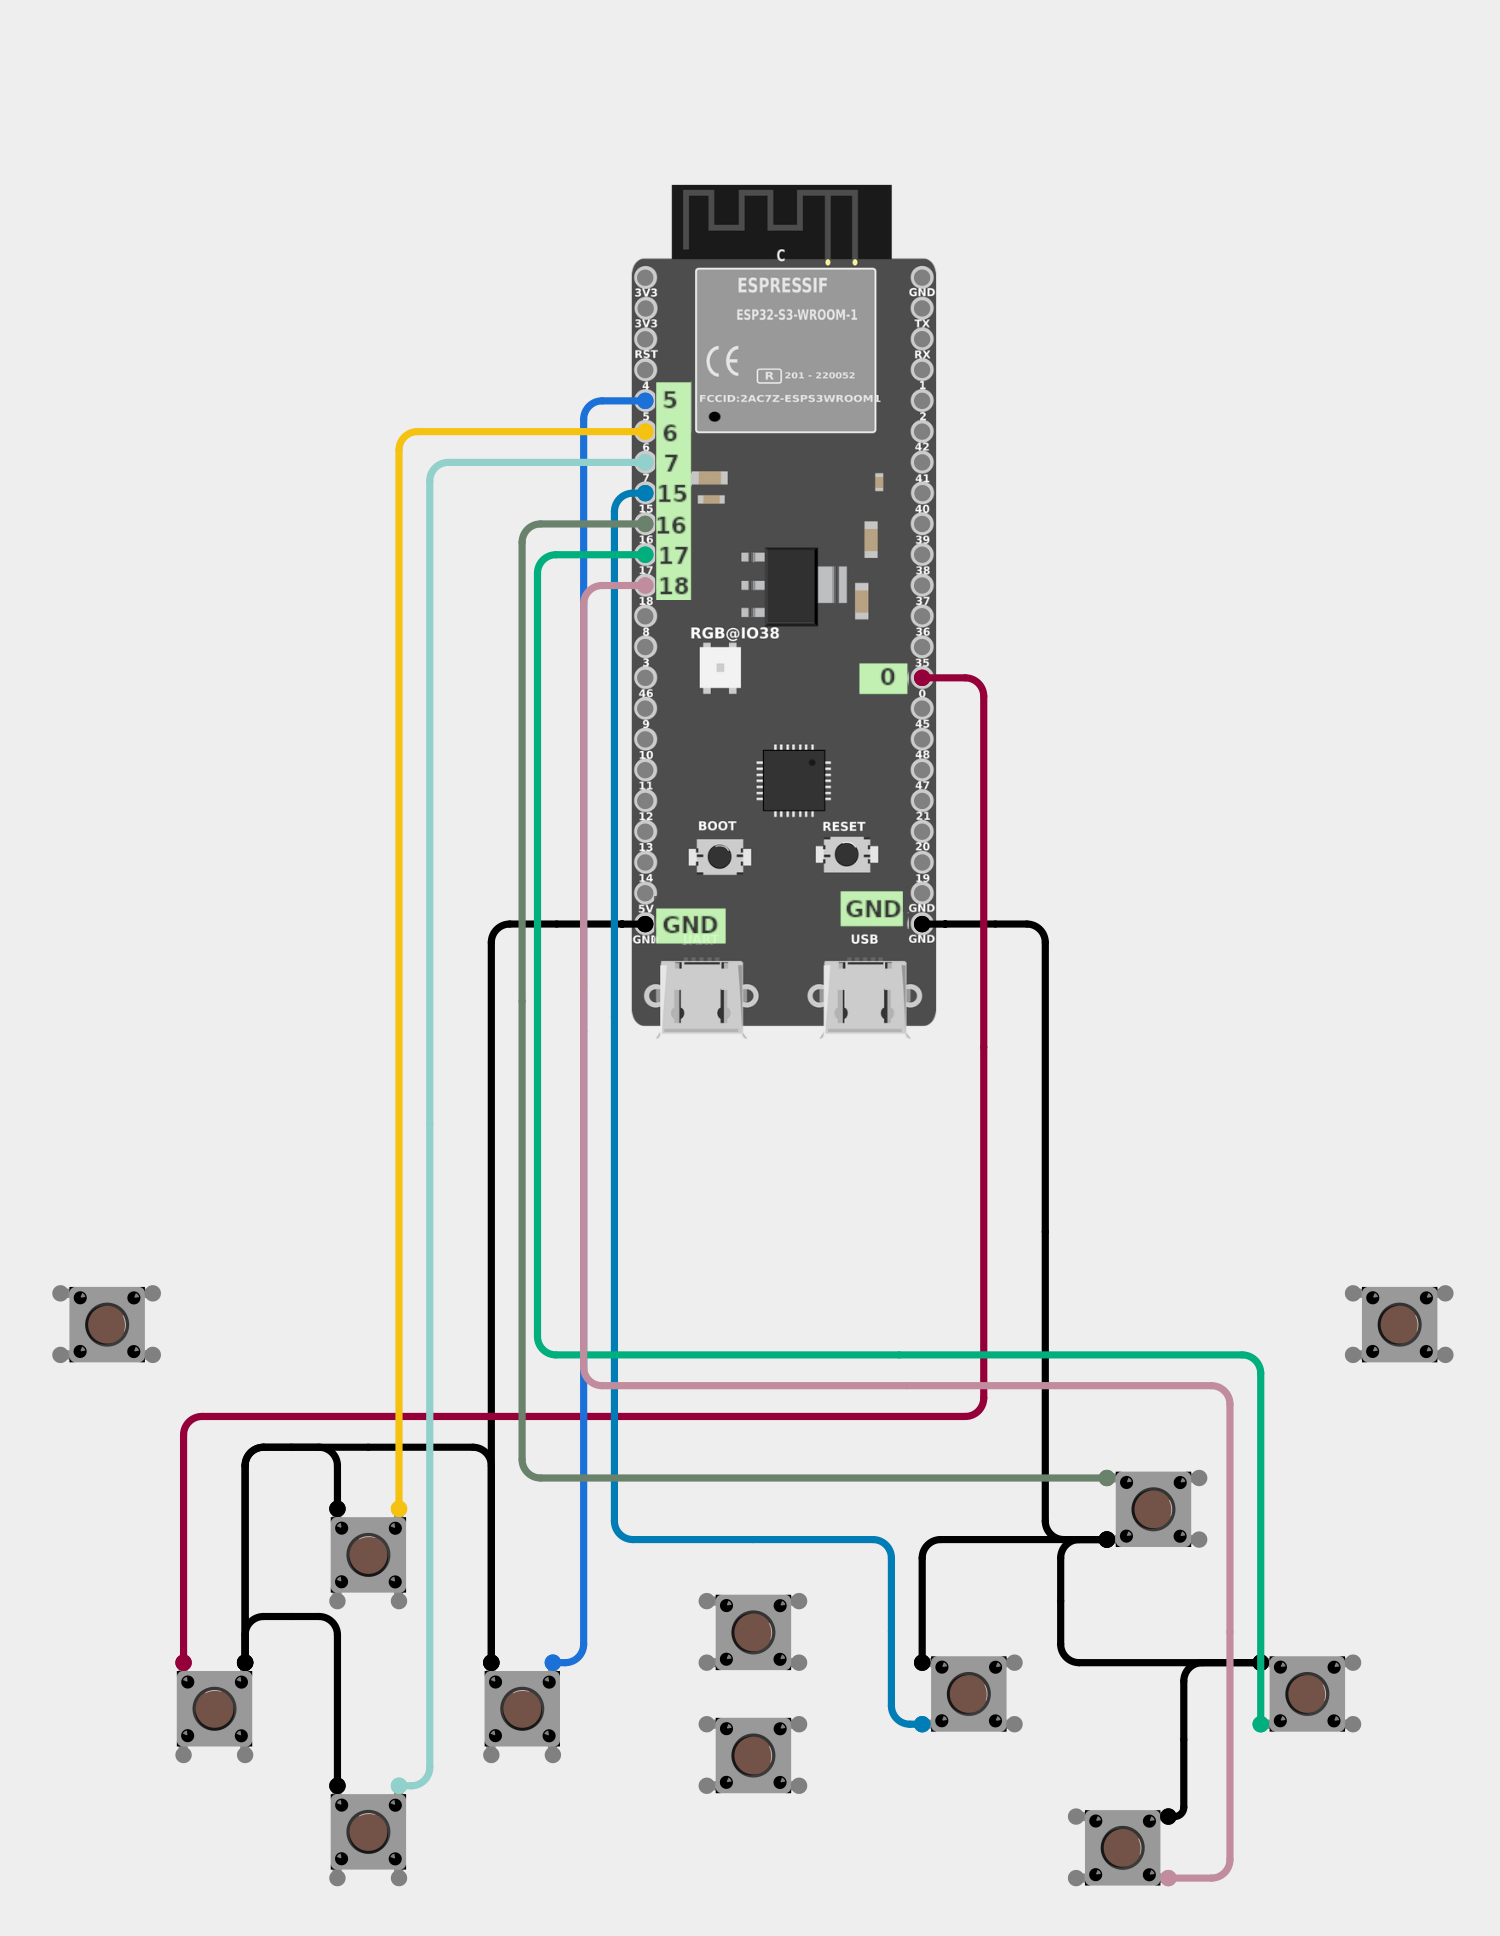
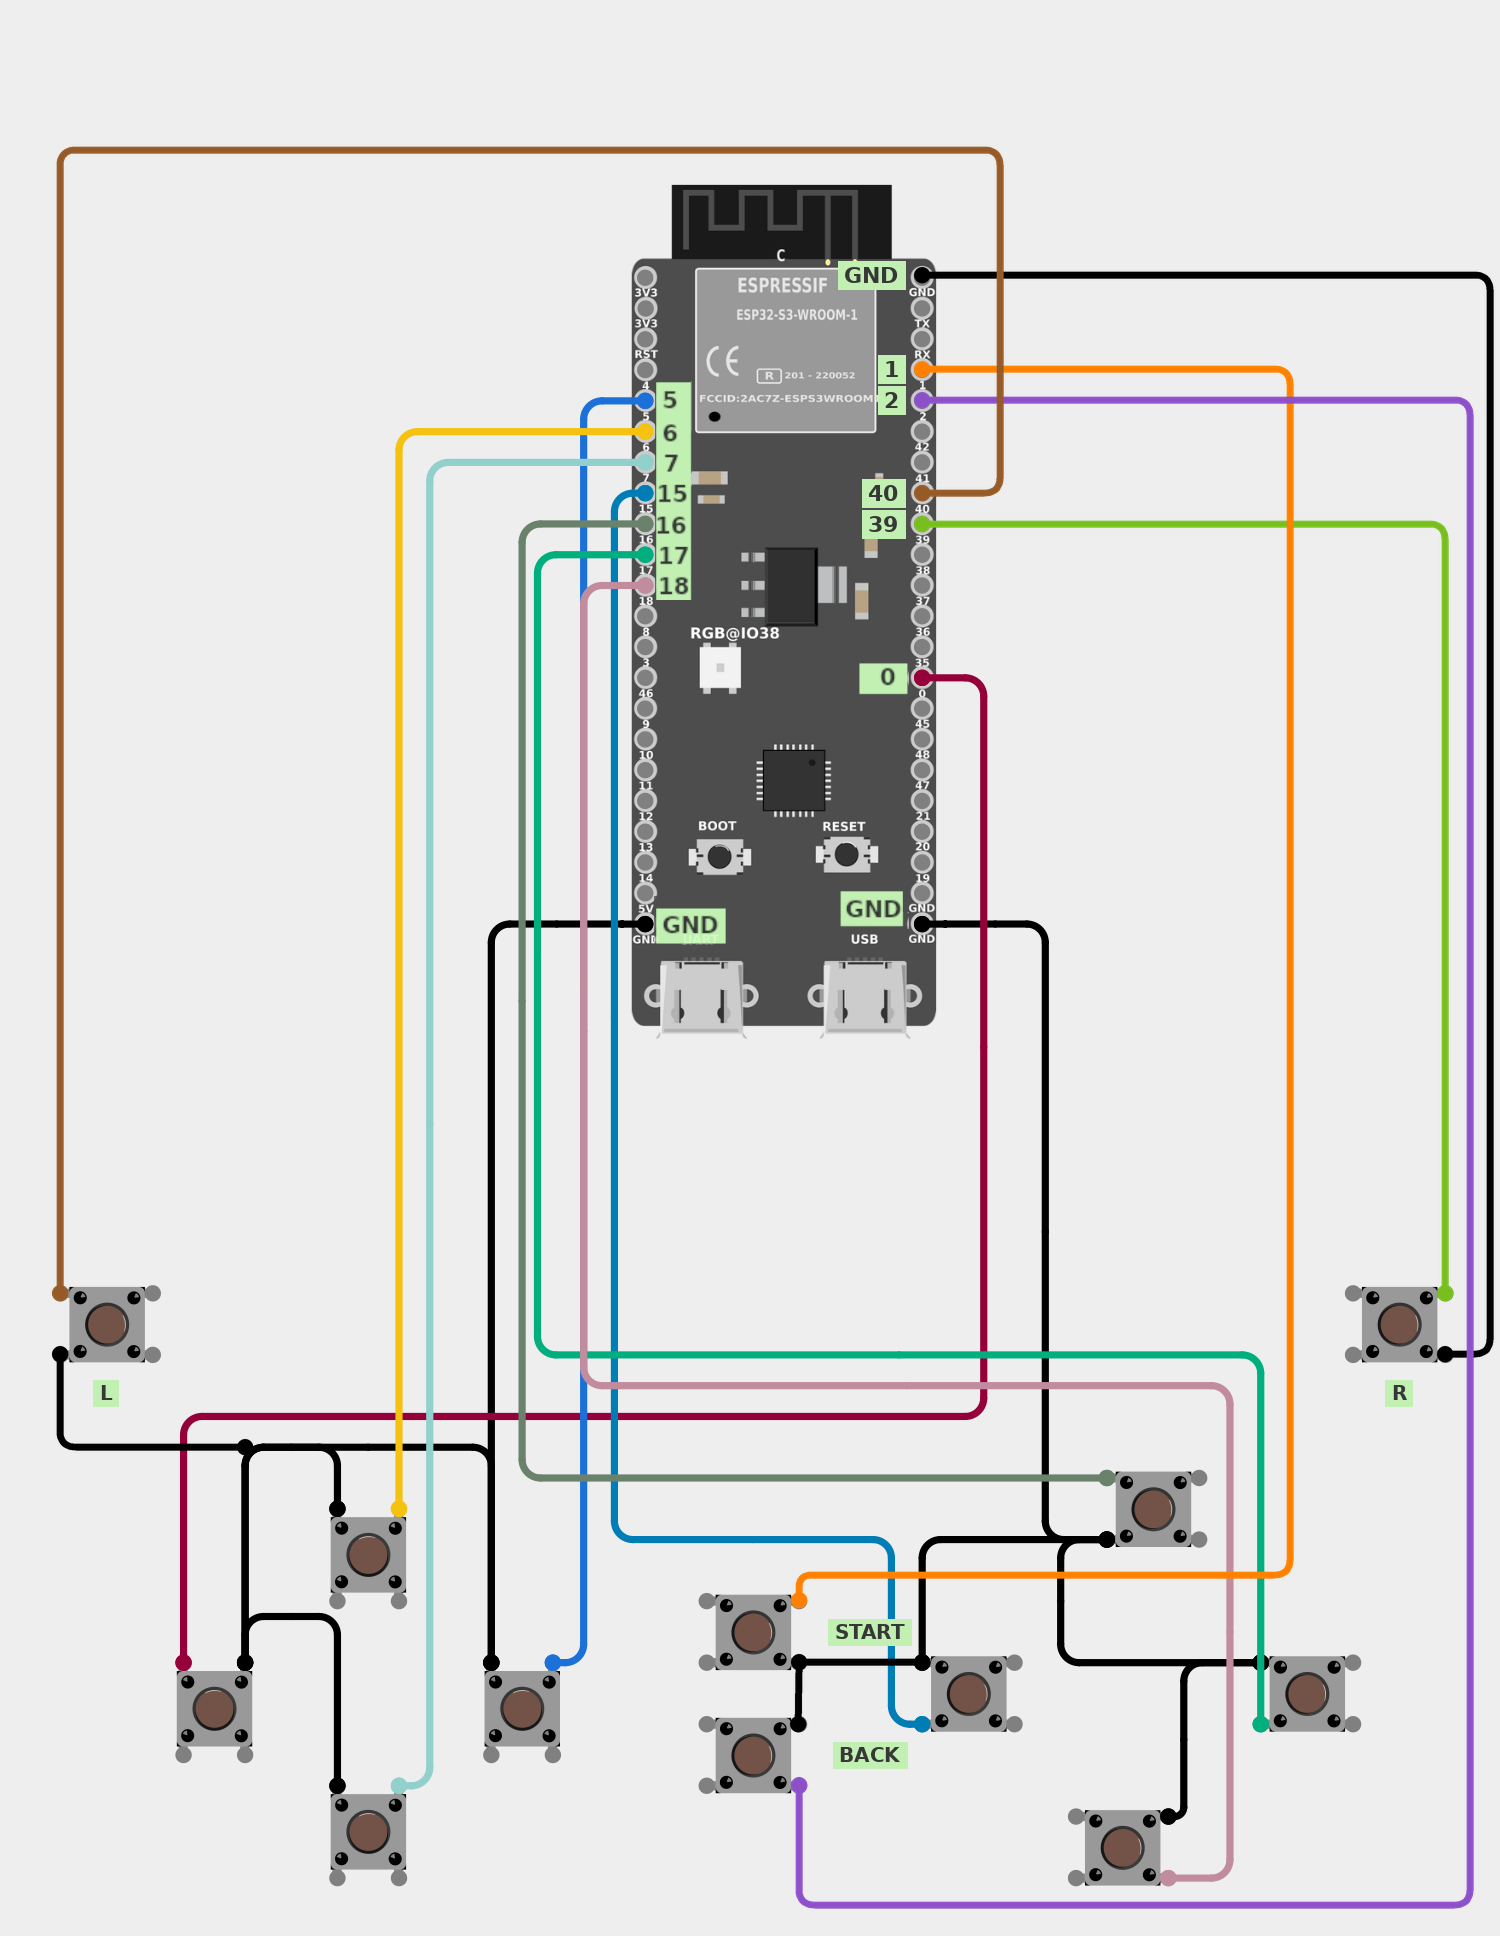
feat: new buttons and pause

Changed region(s): [[0.0307, 0.062, 1.0, 0.9917], [0.5213, 0.8058, 0.8587, 0.8988], [0.552, 0.8988, 0.6133, 0.9298]]

diff --git a/firmware/TurtleReader/turtle_input.h b/firmware/TurtleReader/turtle_input.h
@@ -52,7 +52,7 @@ enum TurtleBtn : int {
 #endif
 /*
  * START/BACK/L/R: GPIO libres y sin strapping (no 0/3/45/46), fuera de UART0 (43/44) y del
- * LED RGB de algunas placas N16R8 (48). Audio usa 14 y 42.
+ * LED RGB integrado (IO38 en la DevKitC-1 v1.1, IO48 en la v1.0). Audio usa 14 y 42.
  */
 #ifndef TURTLE_BTN_PIN_START
 #define TURTLE_BTN_PIN_START 1
@@ -61,7 +61,7 @@ enum TurtleBtn : int {
 #define TURTLE_BTN_PIN_BACK 2
 #endif
 #ifndef TURTLE_BTN_PIN_L
-#define TURTLE_BTN_PIN_L 38
+#define TURTLE_BTN_PIN_L 40
 #endif
 #ifndef TURTLE_BTN_PIN_R
 #define TURTLE_BTN_PIN_R 39

diff --git a/docs/site/docs/lua/input.md b/docs/site/docs/lua/input.md
@@ -62,4 +62,4 @@ An invalid button index (`< 0` or `> 11`) causes a **Lua error** (unlike color c
 
 ## Pin configuration
 
-Button GPIO pins are defined in `firmware/TurtleReader/turtle_input.h` (`TURTLE_BTN_PIN_*`). Set a pin to **-1** to disable that button. Defaults: D-pad 4–7, A–D 15–18, START/BACK 1/2, L/R 38/39. Avoid SD (19, 20, 21, 47), display (8–13), audio (14, 42), octal PSRAM (33–37), strapping pins (0, 3, 45, 46) and UART0 (43/44).
+Button GPIO pins are defined in `firmware/TurtleReader/turtle_input.h` (`TURTLE_BTN_PIN_*`). Set a pin to **-1** to disable that button. Defaults: D-pad 4–7, A–D 15–18, START/BACK 1/2, L/R 40/39. Avoid SD (19, 20, 21, 47), display (8–13), audio (14, 42), octal PSRAM (33–37), strapping pins (0, 3, 45, 46), UART0 (43/44) and the on-board RGB LED (IO38 on DevKitC-1 v1.1, IO48 on v1.0).

diff --git a/spec/audio-v0.md b/spec/audio-v0.md
@@ -45,7 +45,7 @@ Reservados a partir de **`turtle_audio.h`** (aun no creado); documentados aqui p
 
 Criterio de eleccion (ESP32-S3-N16R8):
 
-- **GPIO 14** esta libre: no lo usan pantalla (8-13), botones (1, 2, 4-7, 15-18, 38, 39) ni SD (19, 20, 21, 47). No es strapping pin.
+- **GPIO 14** esta libre: no lo usan pantalla (8-13), botones (1, 2, 4-7, 15-18, 39, 40) ni SD (19, 20, 21, 47). No es strapping pin.
 - GPIO 33..37 estan **reservados por la PSRAM octal (R8)** y no se pueden tocar.
 - GPIO 42 es libre, sin strapping. La conexion a SHDN del PAM8403 es opcional: si no se cablea, dejar el SHDN del modulo tirado a VCC con su pull-up de fabrica y omitir `TURTLE_AUDIO_MUTE_PIN` en el firmware.
 

diff --git a/spec/input-v0.md b/spec/input-v0.md
@@ -46,9 +46,9 @@ Se configuran en `firmware/TurtleReader/turtle_input.h` (`TURTLE_BTN_PIN_*`). Va
 | LEFT / RIGHT / UP / DOWN | 4 / 5 / 6 / 7 |
 | A / B / C / D | 15 / 16 / 17 / 18 |
 | START / BACK | 1 / 2 |
-| L / R | 38 / 39 |
+| L / R | 40 / 39 |
 
-Los pines de START/BACK/L/R evitan strapping (0, 3, 45, 46), UART0 (43/44, monitor serie) y GPIO 48 (LED RGB en algunas placas N16R8).
+Los pines de START/BACK/L/R evitan strapping (0, 3, 45, 46), UART0 (43/44, monitor serie) y el LED RGB integrado (IO38 en la DevKitC-1 v1.1, IO48 en la v1.0).
 
 ## TurtleStudio (modo Play)
 
